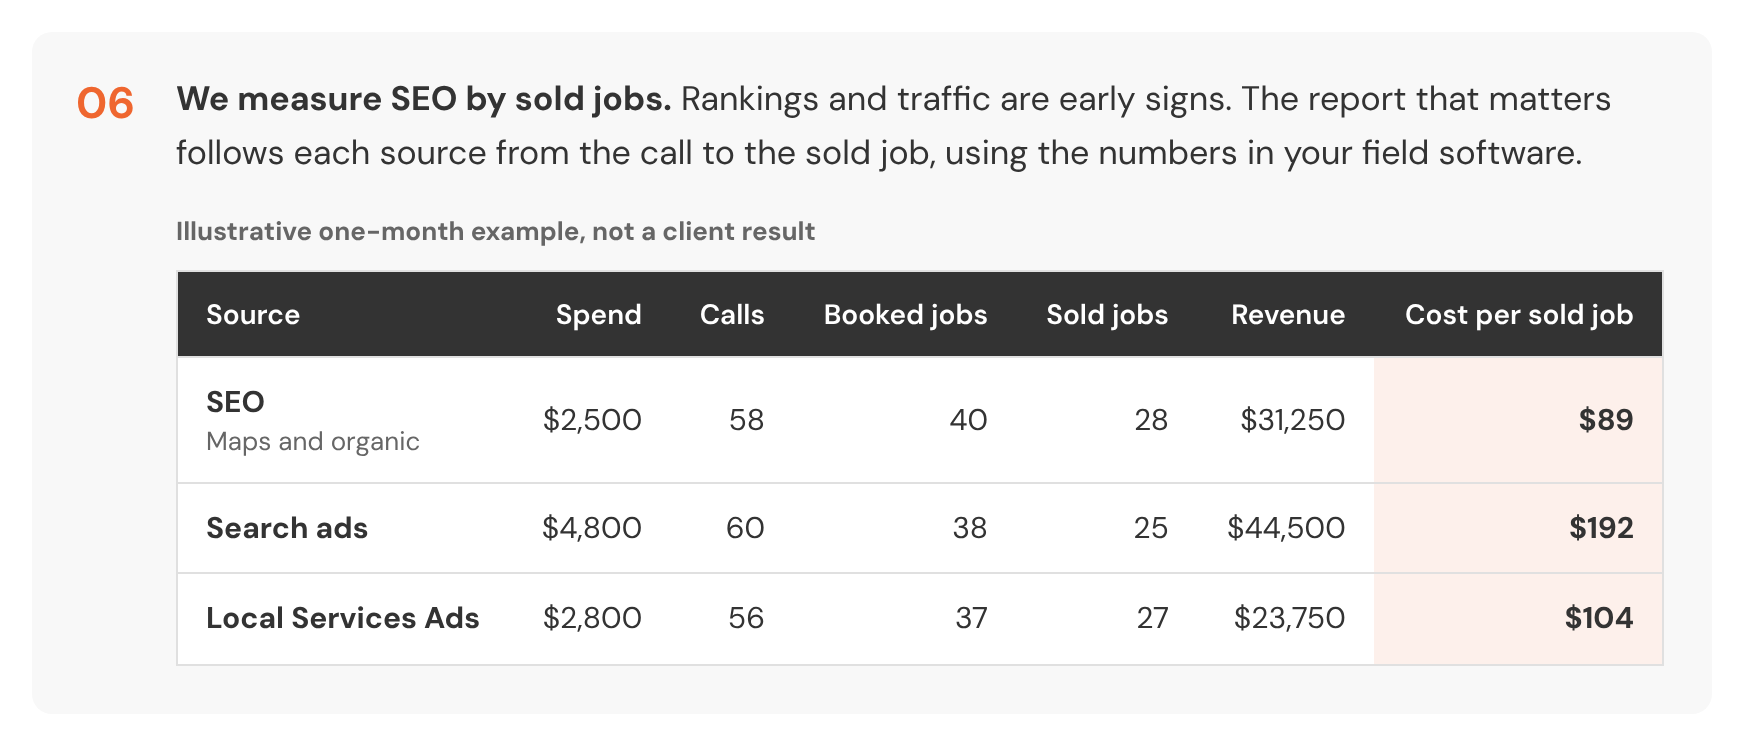
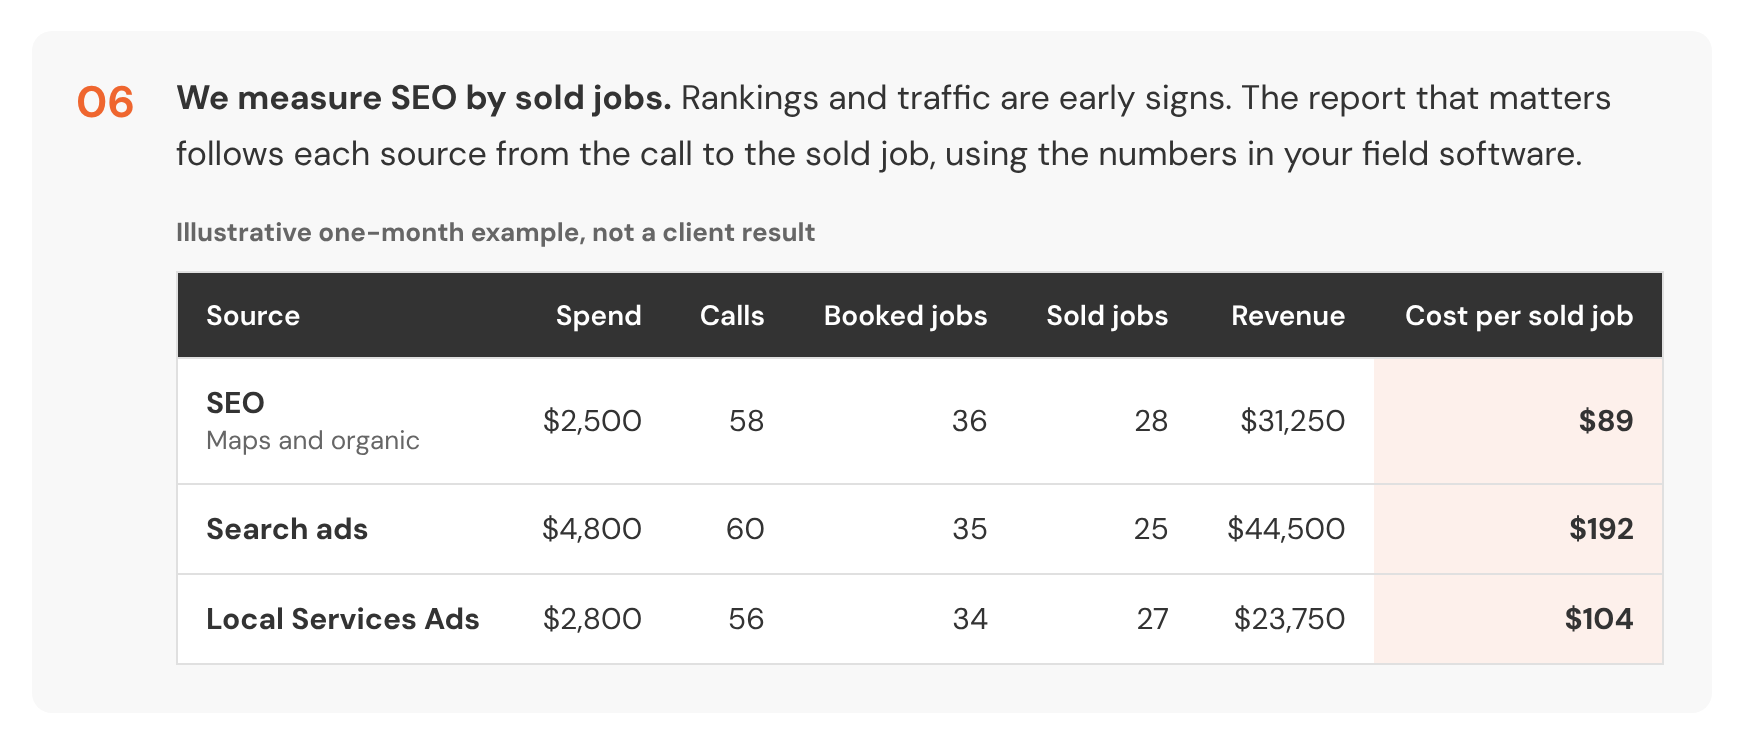
HVAC SEO spoke example report: booked jobs 36, 35 and 34
The Booked jobs column moves from 40, 38 and 37 to 36, 35 and 34 so the
step from booked to sold follows each row's own job mix. Still proposed,
nothing live.

Claude-Session: https://claude.ai/code/session_01N4TQRWxzmKnJRy7asmiYEF

diff --git a/hvac-spokes-2026-11-18/sample-report/EDITS.md b/hvac-spokes-2026-11-18/sample-report/EDITS.md
@@ -8,6 +8,8 @@ One element on one page: the SEO page (13745), /services/hvac-marketing/seo/, st
 
 Andrew, 2026-11-18 5:32 PM ET: "I favor your suggestion to show a small, explicitly labeled sample report with source, spend, calls, booked jobs, sold jobs, revenue, and cost per sold job. This makes your differentiator tangible."
 
+Revised 2026-11-19 after Andrew read the first version (11:55 AM ET) and asked for the fall-off from booked jobs to sold jobs to be closer to usual: the Booked jobs column changed from 40, 38 and 37 to 36, 35 and 34. No other figure changed.
+
 Nothing else on the page changes. Step 06 is not part of the FAQ, so the schema snippet (13747) is not touched. No other page changes.
 
 Mockups: `example-report-desktop.png` and `example-report-phone.png` in this folder.
@@ -37,9 +39,9 @@ Then the table, inside the same step card, directly under the sentence:
 <table class="hv-report" role="table" aria-label="Illustrative example of a one-month sold-jobs report by source">
 <thead role="rowgroup"><tr role="row"><th role="columnheader" scope="col">Source</th><th role="columnheader" scope="col">Spend</th><th role="columnheader" scope="col">Calls</th><th role="columnheader" scope="col">Booked jobs</th><th role="columnheader" scope="col">Sold jobs</th><th role="columnheader" scope="col">Revenue</th><th role="columnheader" scope="col">Cost per sold job</th></tr></thead>
 <tbody role="rowgroup">
-<tr role="row"><th role="rowheader" scope="row">SEO <small>Maps and organic</small></th><td role="cell">$2,500</td><td role="cell">58</td><td role="cell">40</td><td role="cell">28</td><td role="cell">$31,250</td><td role="cell">$89</td></tr>
-<tr role="row"><th role="rowheader" scope="row">Search ads</th><td role="cell">$4,800</td><td role="cell">60</td><td role="cell">38</td><td role="cell">25</td><td role="cell">$44,500</td><td role="cell">$192</td></tr>
-<tr role="row"><th role="rowheader" scope="row">Local Services Ads</th><td role="cell">$2,800</td><td role="cell">56</td><td role="cell">37</td><td role="cell">27</td><td role="cell">$23,750</td><td role="cell">$104</td></tr>
+<tr role="row"><th role="rowheader" scope="row">SEO <small>Maps and organic</small></th><td role="cell">$2,500</td><td role="cell">58</td><td role="cell">36</td><td role="cell">28</td><td role="cell">$31,250</td><td role="cell">$89</td></tr>
+<tr role="row"><th role="rowheader" scope="row">Search ads</th><td role="cell">$4,800</td><td role="cell">60</td><td role="cell">35</td><td role="cell">25</td><td role="cell">$44,500</td><td role="cell">$192</td></tr>
+<tr role="row"><th role="rowheader" scope="row">Local Services Ads</th><td role="cell">$2,800</td><td role="cell">56</td><td role="cell">34</td><td role="cell">27</td><td role="cell">$23,750</td><td role="cell">$104</td></tr>
 </tbody>
 </table>
 </div>
@@ -94,7 +96,12 @@ Every figure is an example, and the label says so. They are built to agree with 
 - Search ads is that page's second account: 60 leads at $80 = $4,800, and 5 replacements + 20 repairs = 25 sold jobs and $44,500.
 - Local Services Ads uses that page's other price per lead: 56 leads at $50 = $2,800, and 2 replacements + 25 repairs = 27 sold jobs and $23,750.
 - SEO: $2,500 is the top of the range the hub gives for focused SEO work ("$1,500–2,500 a month"), and 3 replacements + 25 repairs = 28 sold jobs and $31,250.
-- Booked jobs (40, 38 and 37) are example figures that sit between calls and sold jobs.
+- Booked jobs (36, 35 and 34) are worked out from each row's own job mix, using two published rates: repair calls close at 85% or better, and replacement estimates close at a little over 40%.
+  - SEO: 29 repair calls sell 25 repairs, and 7 estimates sell 3 systems. 36 booked, 28 sold (78%).
+  - Search ads: 23 repair calls sell 20 repairs, and 12 estimates sell 5 systems. 35 booked, 25 sold (71%).
+  - Local Services Ads: 29 repair calls sell 25 repairs, and 5 estimates sell 2 systems. 34 booked, 27 sold (79%).
+  - Sources, read 2026-11-19: ServiceTitan's contractor playbook lists "Closed calls ≥ 85%" as the benchmark for an HVAC service technician (a target, not a measured average). ACHR News, Feb 10 2026, on a survey of more than 1,000 contractors by ACCA and Farmington Consulting Group: "Contractors are closing 43% of their install jobs", 45% in residential. The hub's own example uses 40%.
+  - Calls to booked comes out at 62%, 58% and 61%. ServiceTitan's data from more than 3,000 shops (June 2022) put HVAC at 38% of calls booked and shops with 25 or more techs at 59%.
 - Cost per sold job is spend ÷ sold jobs, rounded to the dollar: 2,500 ÷ 28 = 89, 4,800 ÷ 25 = 192, 2,800 ÷ 27 = 104.
 - The SEO row has the lowest cost per sold job because the page already says so in words: "For an established company, it’s usually the channel that brings cost per sold job down over time."
 
